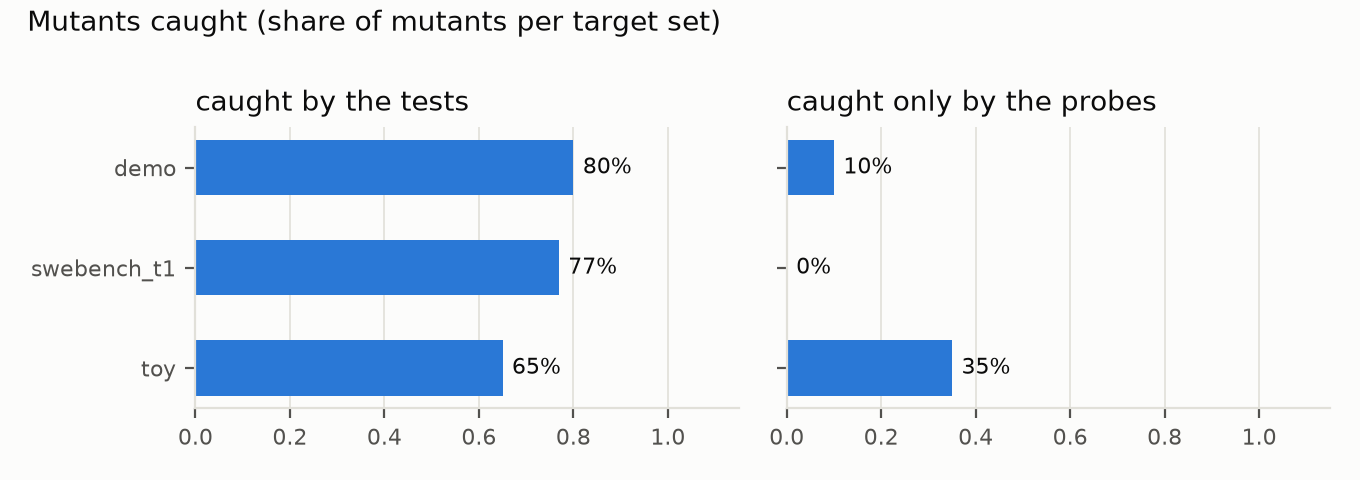
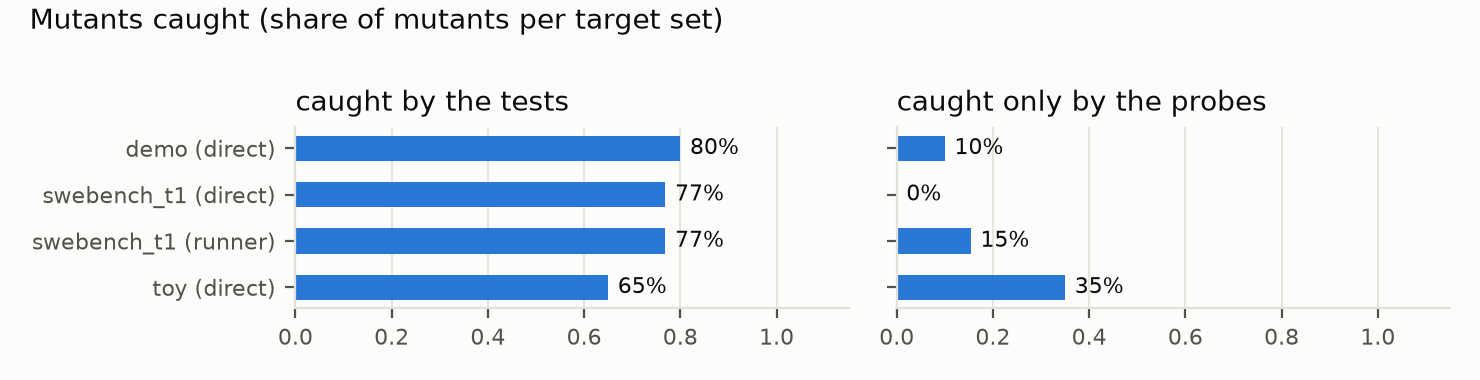
guard strength before and after runner mode, with mismatches per record

diff --git a/scripts/exp_guard_strength.py b/scripts/exp_guard_strength.py
@@ -47,6 +47,11 @@ def _check(ok: bool, info: dict) -> str | None:
     return None if ok else info.get("check", "other")
 
 
+def _mismatches(info: dict) -> list[str]:
+    """The first probe mismatches, to see what a probe catch was about."""
+    return list(getattr(info.get("diff_check"), "mismatches", None) or [])[:3]
+
+
 def run_mutants(before, after, units, cfg, llm, limit, seed=0) -> list[dict]:
     pool = []
     for unit in units:
@@ -69,6 +74,7 @@ def run_mutants(before, after, units, cfg, llm, limit, seed=0) -> list[dict]:
                 "check": _check(ok, info),
                 "probe_cases": getattr(info.get("diff_check"), "n_cases", None),
                 "probe_mode": info.get("probe_mode"),
+                "mismatches": _mismatches(info),
                 "seconds": round(time.time() - t0, 1),
             }
         )
@@ -85,6 +91,7 @@ def false_alarm(before, after, units, cfg, llm) -> dict:
         "check": _check(ok, info),
         "probe_cases": getattr(info.get("diff_check"), "n_cases", None),
         "probe_mode": info.get("probe_mode"),
+        "mismatches": _mismatches(info),
         "seconds": round(time.time() - t0, 1),
     }
 
@@ -179,6 +186,7 @@ def patchdiff_recall(before, after, cfg: dict, llm) -> dict:
         "check": _check(ok, info) if applied else "oracle did not apply",
         "probe_cases": getattr(info.get("diff_check"), "n_cases", None),
         "probe_mode": info.get("probe_mode"),
+        "mismatches": _mismatches(info),
         "seconds": round(time.time() - t0, 1),
     }
 

diff --git a/scripts/exp_tables.py b/scripts/exp_tables.py
@@ -219,10 +219,16 @@ def figure_guard_strength() -> None:
     rows = [r for r in csv.DictReader(path.open()) if r["experiment"] == "mutation"]
     if not rows:
         return
-    names = [r["target_set"] for r in rows]
+    rows.sort(key=lambda r: (r["target_set"], r.get("probe_mode", "")))
+    names = [
+        f"{r['target_set']} ({r['probe_mode']})" if r.get("probe_mode") else r["target_set"]
+        for r in rows
+    ]
     tests = [float(r["share_by_tests"]) for r in rows]
     probes = [float(r["share_by_probes"]) for r in rows]
-    fig, axes = plt.subplots(1, 2, figsize=(6.8, 2.4), facecolor=SURFACE, sharey=True)
+    fig, axes = plt.subplots(
+        1, 2, figsize=(7.4, 0.5 + 0.35 * len(rows)), facecolor=SURFACE, sharey=True
+    )
     for ax, vals, title in (
         (axes[0], tests, "caught by the tests"),
         (axes[1], probes, "caught only by the probes"),
